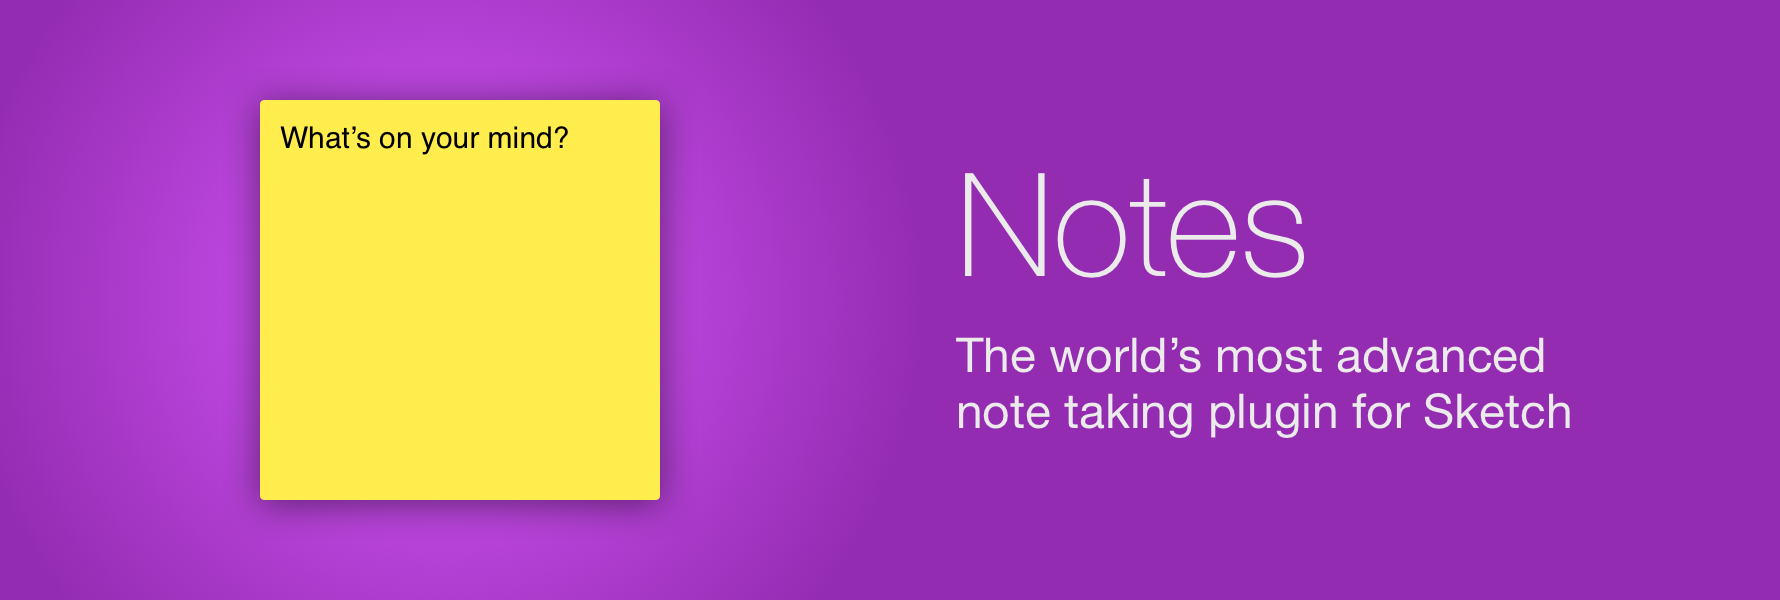
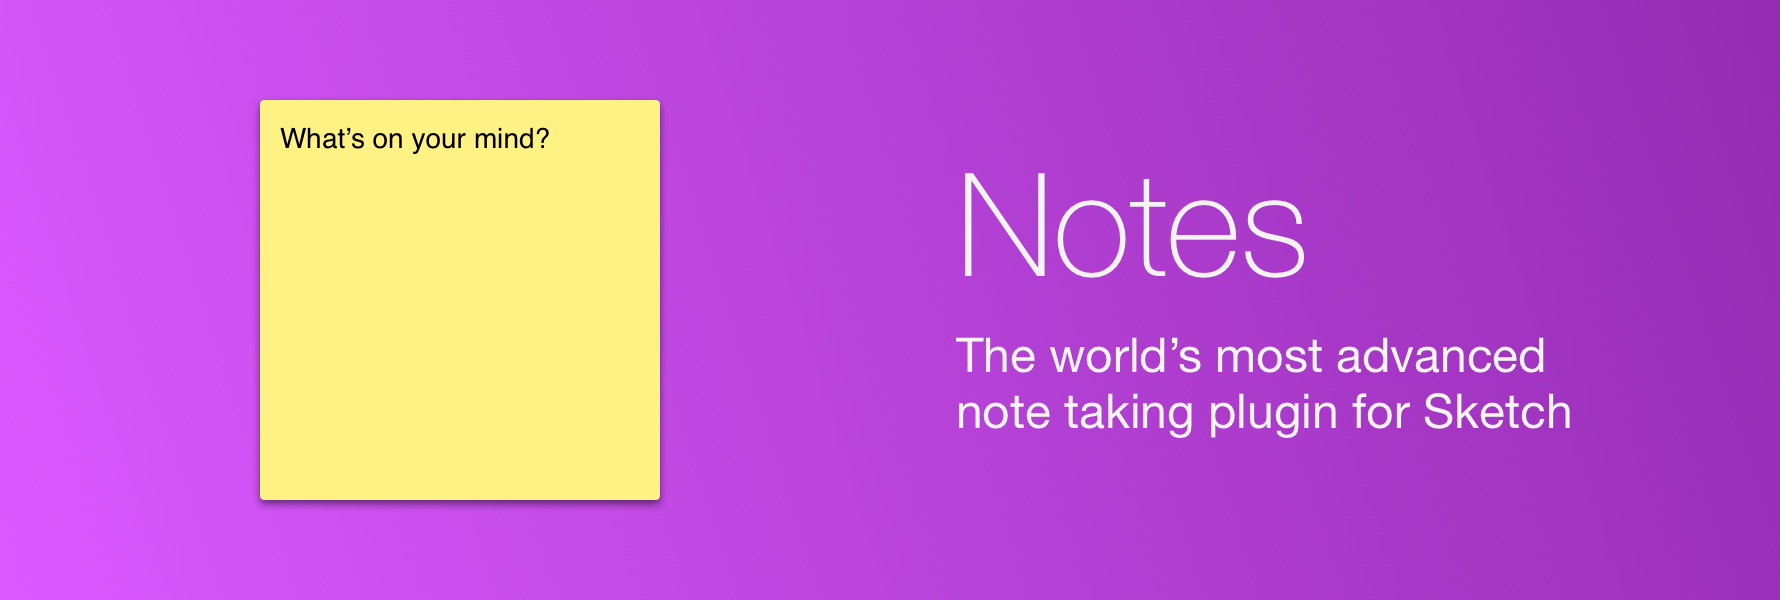
cleaned some things up before sharing

diff --git a/Notes.sketchplugin/Contents/Sketch/notes.js b/Notes.sketchplugin/Contents/Sketch/notes.js
@@ -1,22 +1,17 @@
 var onRun = function(context) {
 
-  // todo
-  // [x] get size of view
-  // [x] center note
-  // [x] change color of rectangle
-  // [ ] size rectangle based on view size
-  // [ ] size type based on view size
-  // [ ] place note based on mouse position
-
   const doc = context.document;
-  const docRect = [[doc currentView] visibleContentRect];
+  const view = [[doc currentView] visibleContentRect];
+  const page = doc.currentPage();
 
   const width = 200;
   const height = 200;
-  const x = Math.round(docRect.origin.x + docRect.size.width/2 - width/2);
-  const y = Math.round(docRect.origin.y + docRect.size.height/2 - height/2);
+  const x = Math.round(view.origin.x + view.size.width/2 - width/2);
+  const y = Math.round(view.origin.y + view.size.height/2 - height/2);
   const padding = 10;
+  const noteColor = MSColor.colorWithRed_green_blue_alpha(255/255, 242/255, 133/255, 1.0);
 
+  // the square for the note
   const rectangleLayer = MSRectangleShape.alloc().init();
   rectangleLayer.frame().setWidth(width);
   rectangleLayer.frame().setHeight(height);
@@ -28,10 +23,10 @@ var onRun = function(context) {
   shapeGroup.frame().setX(x);
   shapeGroup.frame().setY(y);
   shapeGroup.setName("Post-it®");
-  const fillType = 0;
+  const styleType = 0; //  0 = fill
   const shadowType = 2;
-  const fill = shapeGroup.style().addStylePartOfType(fillType);
-  fill.color = MSColor.colorWithRed_green_blue_alpha(255/255, 236/255, 77/255, 1.0);
+  const fill = shapeGroup.style().addStylePartOfType(styleType);
+  fill.color = noteColor;
   shapeGroup.style().addStylePartOfType(shadowType);
   shapeGroup.addLayers( [rectangleLayer] );
 
@@ -44,13 +39,14 @@ var onRun = function(context) {
   textLayer.setName("Note");
   const fixedBehaviour = 1;
   textLayer.setTextBehaviour(fixedBehaviour);
-  textLayer.setStringValue('Take some notes');
+  textLayer.setStringValue("Take some notes...");
+  textLayer.setFontSize(14);
 
   const group = MSLayerGroup.alloc().init();
   group.addLayers( [shapeGroup, textLayer] );
   group.setName("Note");
+  page.addLayers( [group] );
 
-  context.document.currentPage().addLayers( [group] );
+  textLayer.select_byExpandingSelection(true,false); // select text layer
 
-  textLayer.select_byExpandingSelection(true,false);
 }

diff --git a/README.md b/README.md
@@ -1,6 +1,4 @@
-# Notes
-The world's most advanced note taking plugin for Sketch.
-
+## Notes - The world's most advanced note taking plugin for Sketch.
 ![cover](images/cover.png)
 
 #### WHY IN THE HECK SHOULD I USE THIS?
@@ -13,8 +11,14 @@ Notes is useful for quickly writing down feedback about your designs, to-do list
 3. Double-click Notes.sketchplugin
 4. Wow
 
-#### USAGE (AKA CMD + Y)
-Press CMD + Y to insert a new note.
+#### USAGE (AKA CMD + L)
+Press CMD + L to insert a new note.
 
+#### FUTURE CONSIDERATIONS
+- [ ] Auto-hide all Notes on a page
+- [ ] Dynamic sizing based on view size
+Email me jason.cashdollar@gmail.com if you have any other ideas.
 
-#### Thanks to Zack Schiller for helping me make sense of the poorly documented world of sketch plugins.
+##### Thanks to [Zack Schiller](http://www.google.com/) for helping me make sense of the poorly documented world of sketch plugins.
+
+![cat](images/cat.png)
